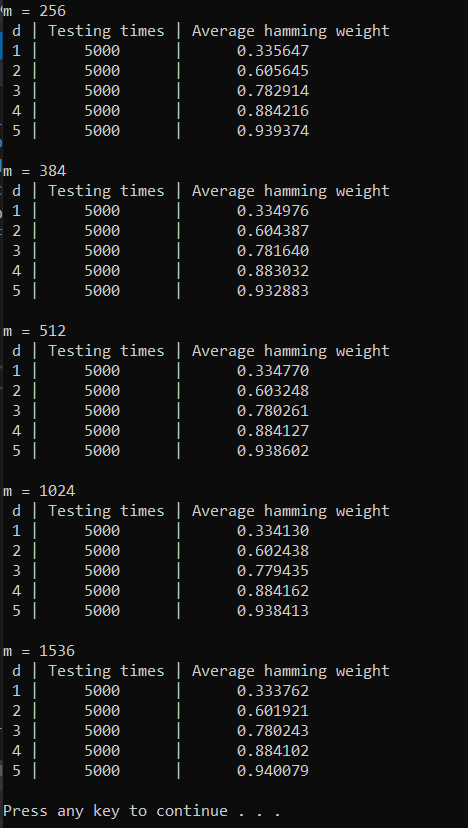
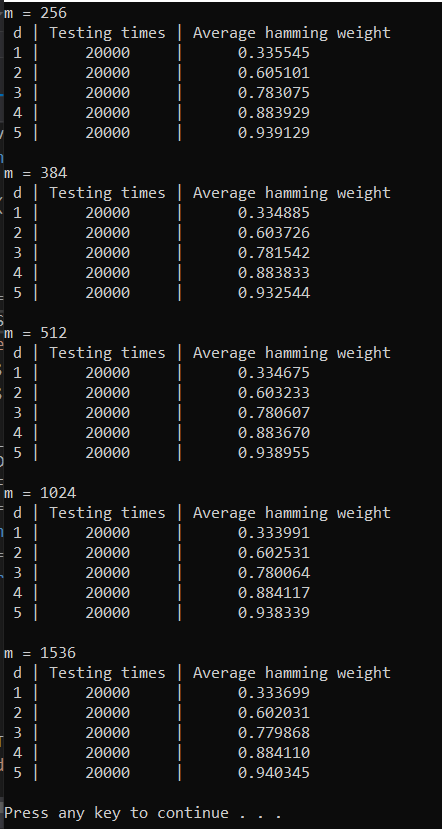
Hamming weight dJSF

diff --git a/BinModSexp/d-JSF.cpp b/BinModSexp/d-JSF.cpp
@@ -168,7 +168,7 @@ void test_HammingWeight_dJSF(big P, csprng &Rng)
 	int count = 0;
 	bool b = 0;
 	double weight = 0;
-	const int TIMES = 5000;
+	const int TIMES = 20000;
 	printf(" d | Testing times | Average hamming weight\n");
 	for (int d = 1; d < 6; d++) {
 		weight = 0;
@@ -187,7 +187,7 @@ void test_HammingWeight_dJSF(big P, csprng &Rng)
 			weight += (double)count / lendJSF;
 		}
 		weight /= TIMES;
-		printf(" %d |     %d      |      %f\n", d, TIMES, (1 - weight));
+		printf(" %d |     %5d     |      %f\n", d, TIMES, (1 - weight));
 	}
 
 	for (int i = 0; i < 6; i++) {
